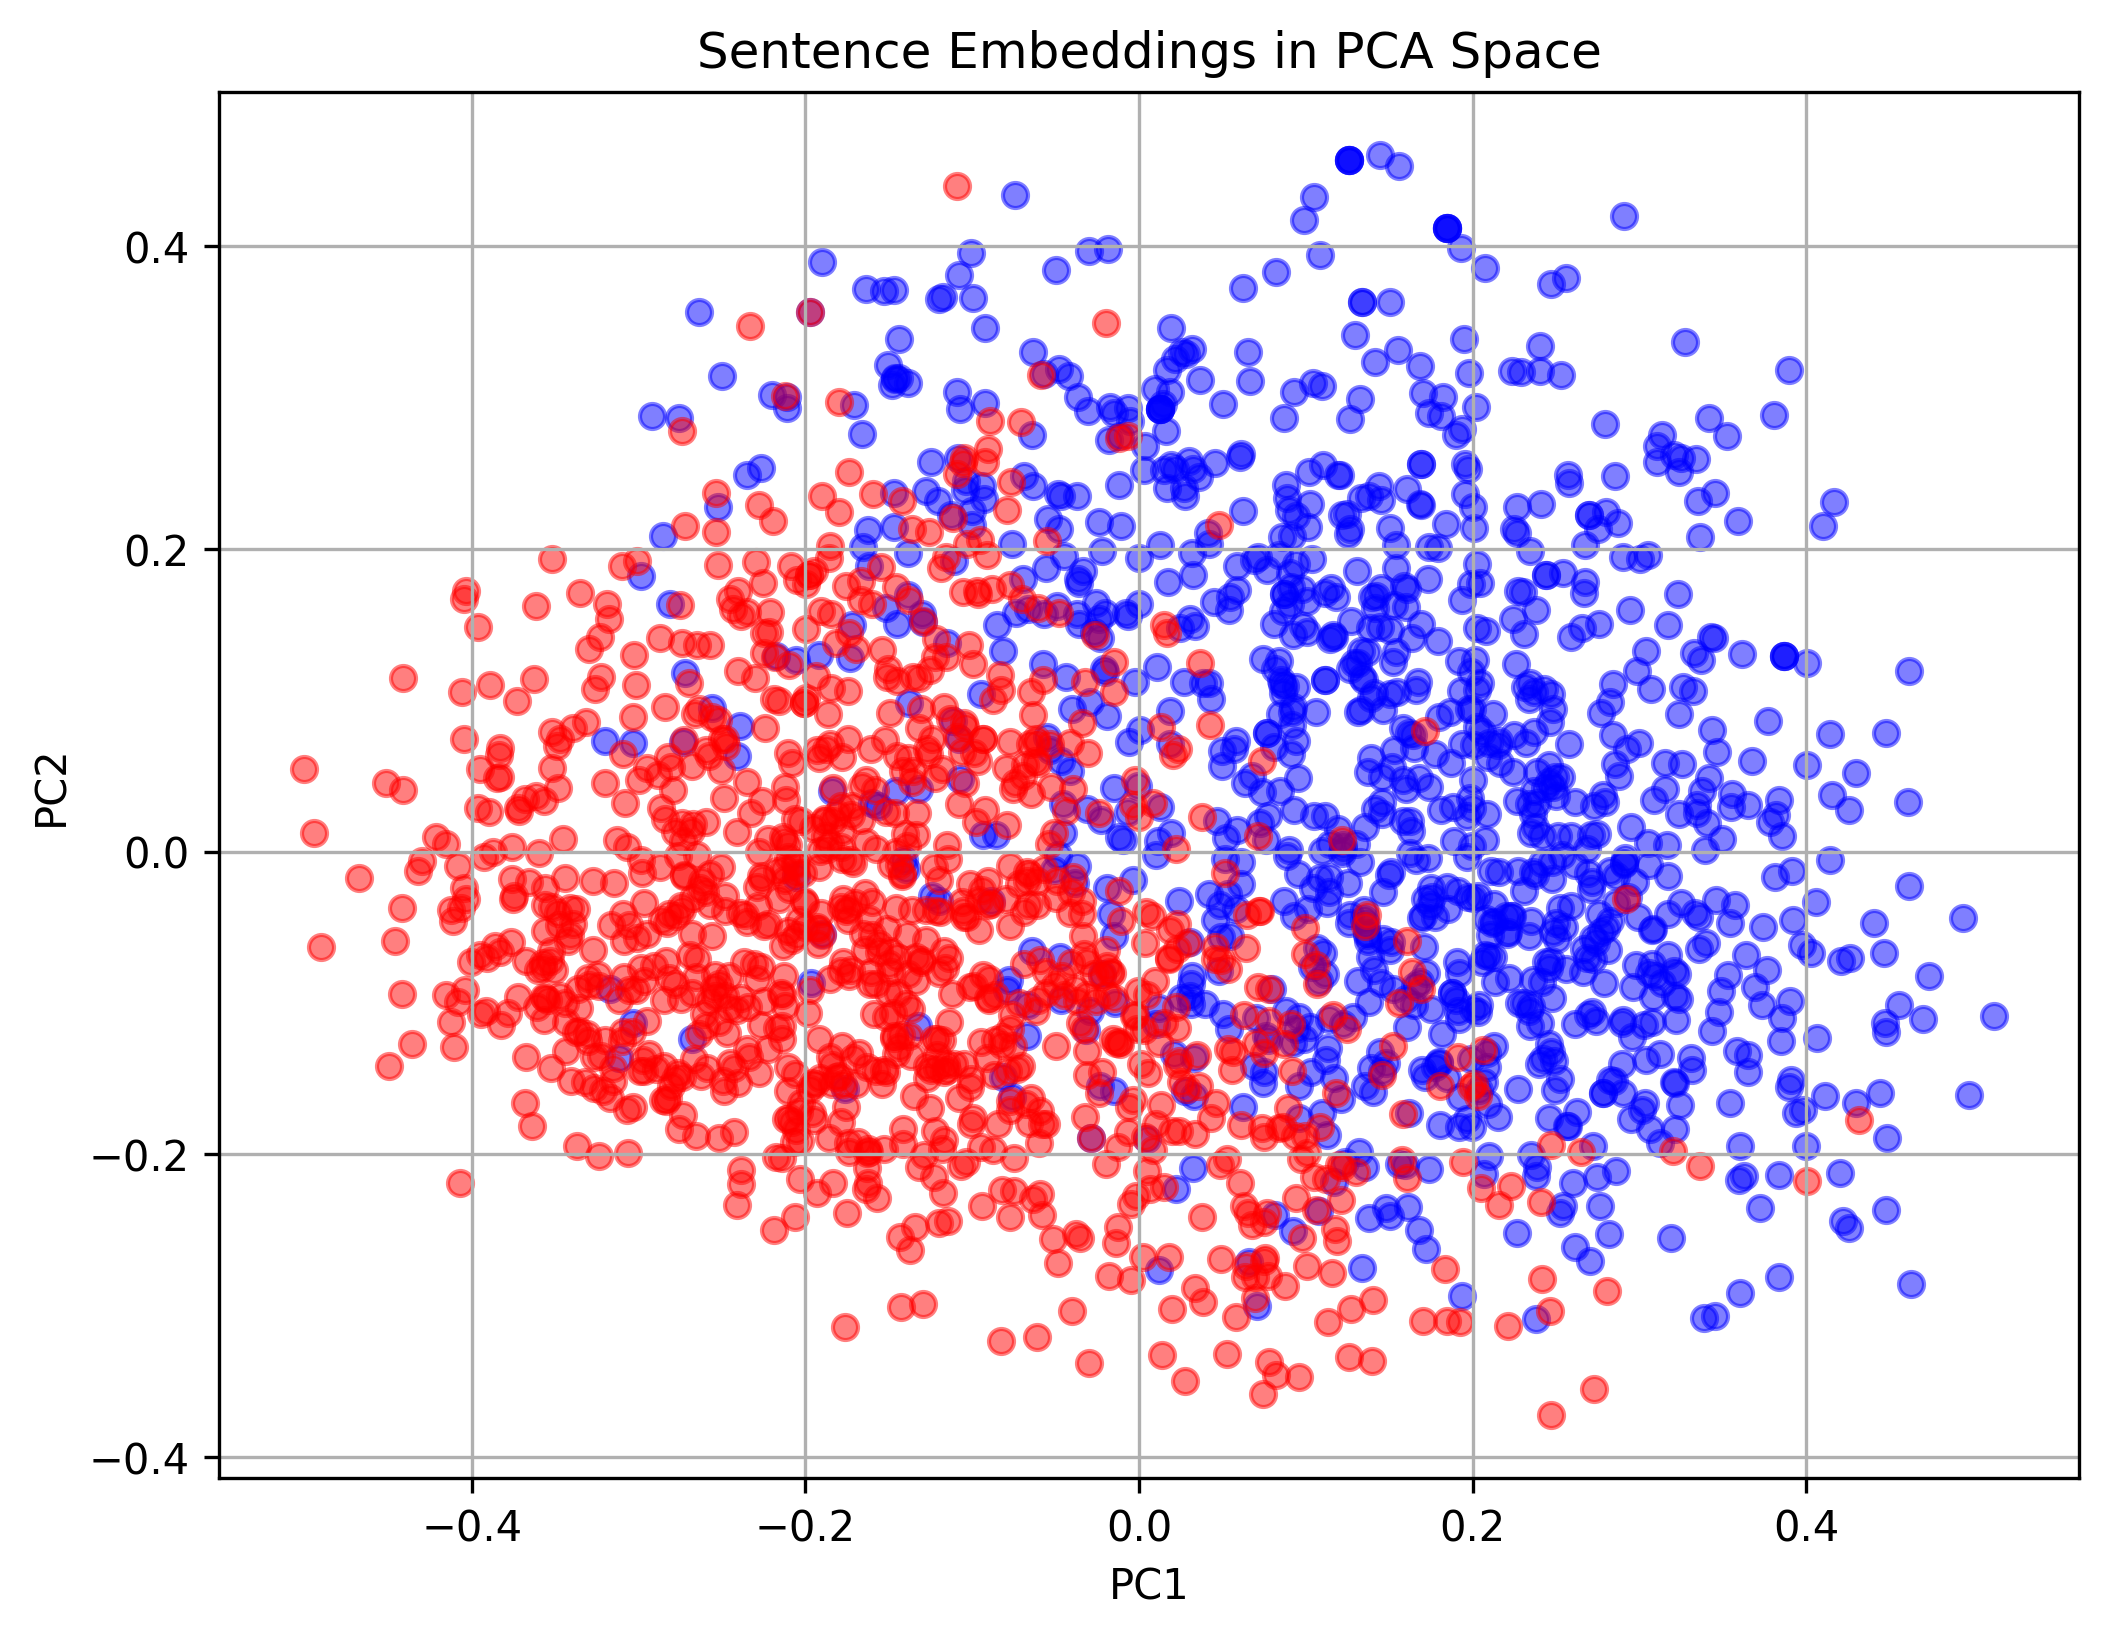
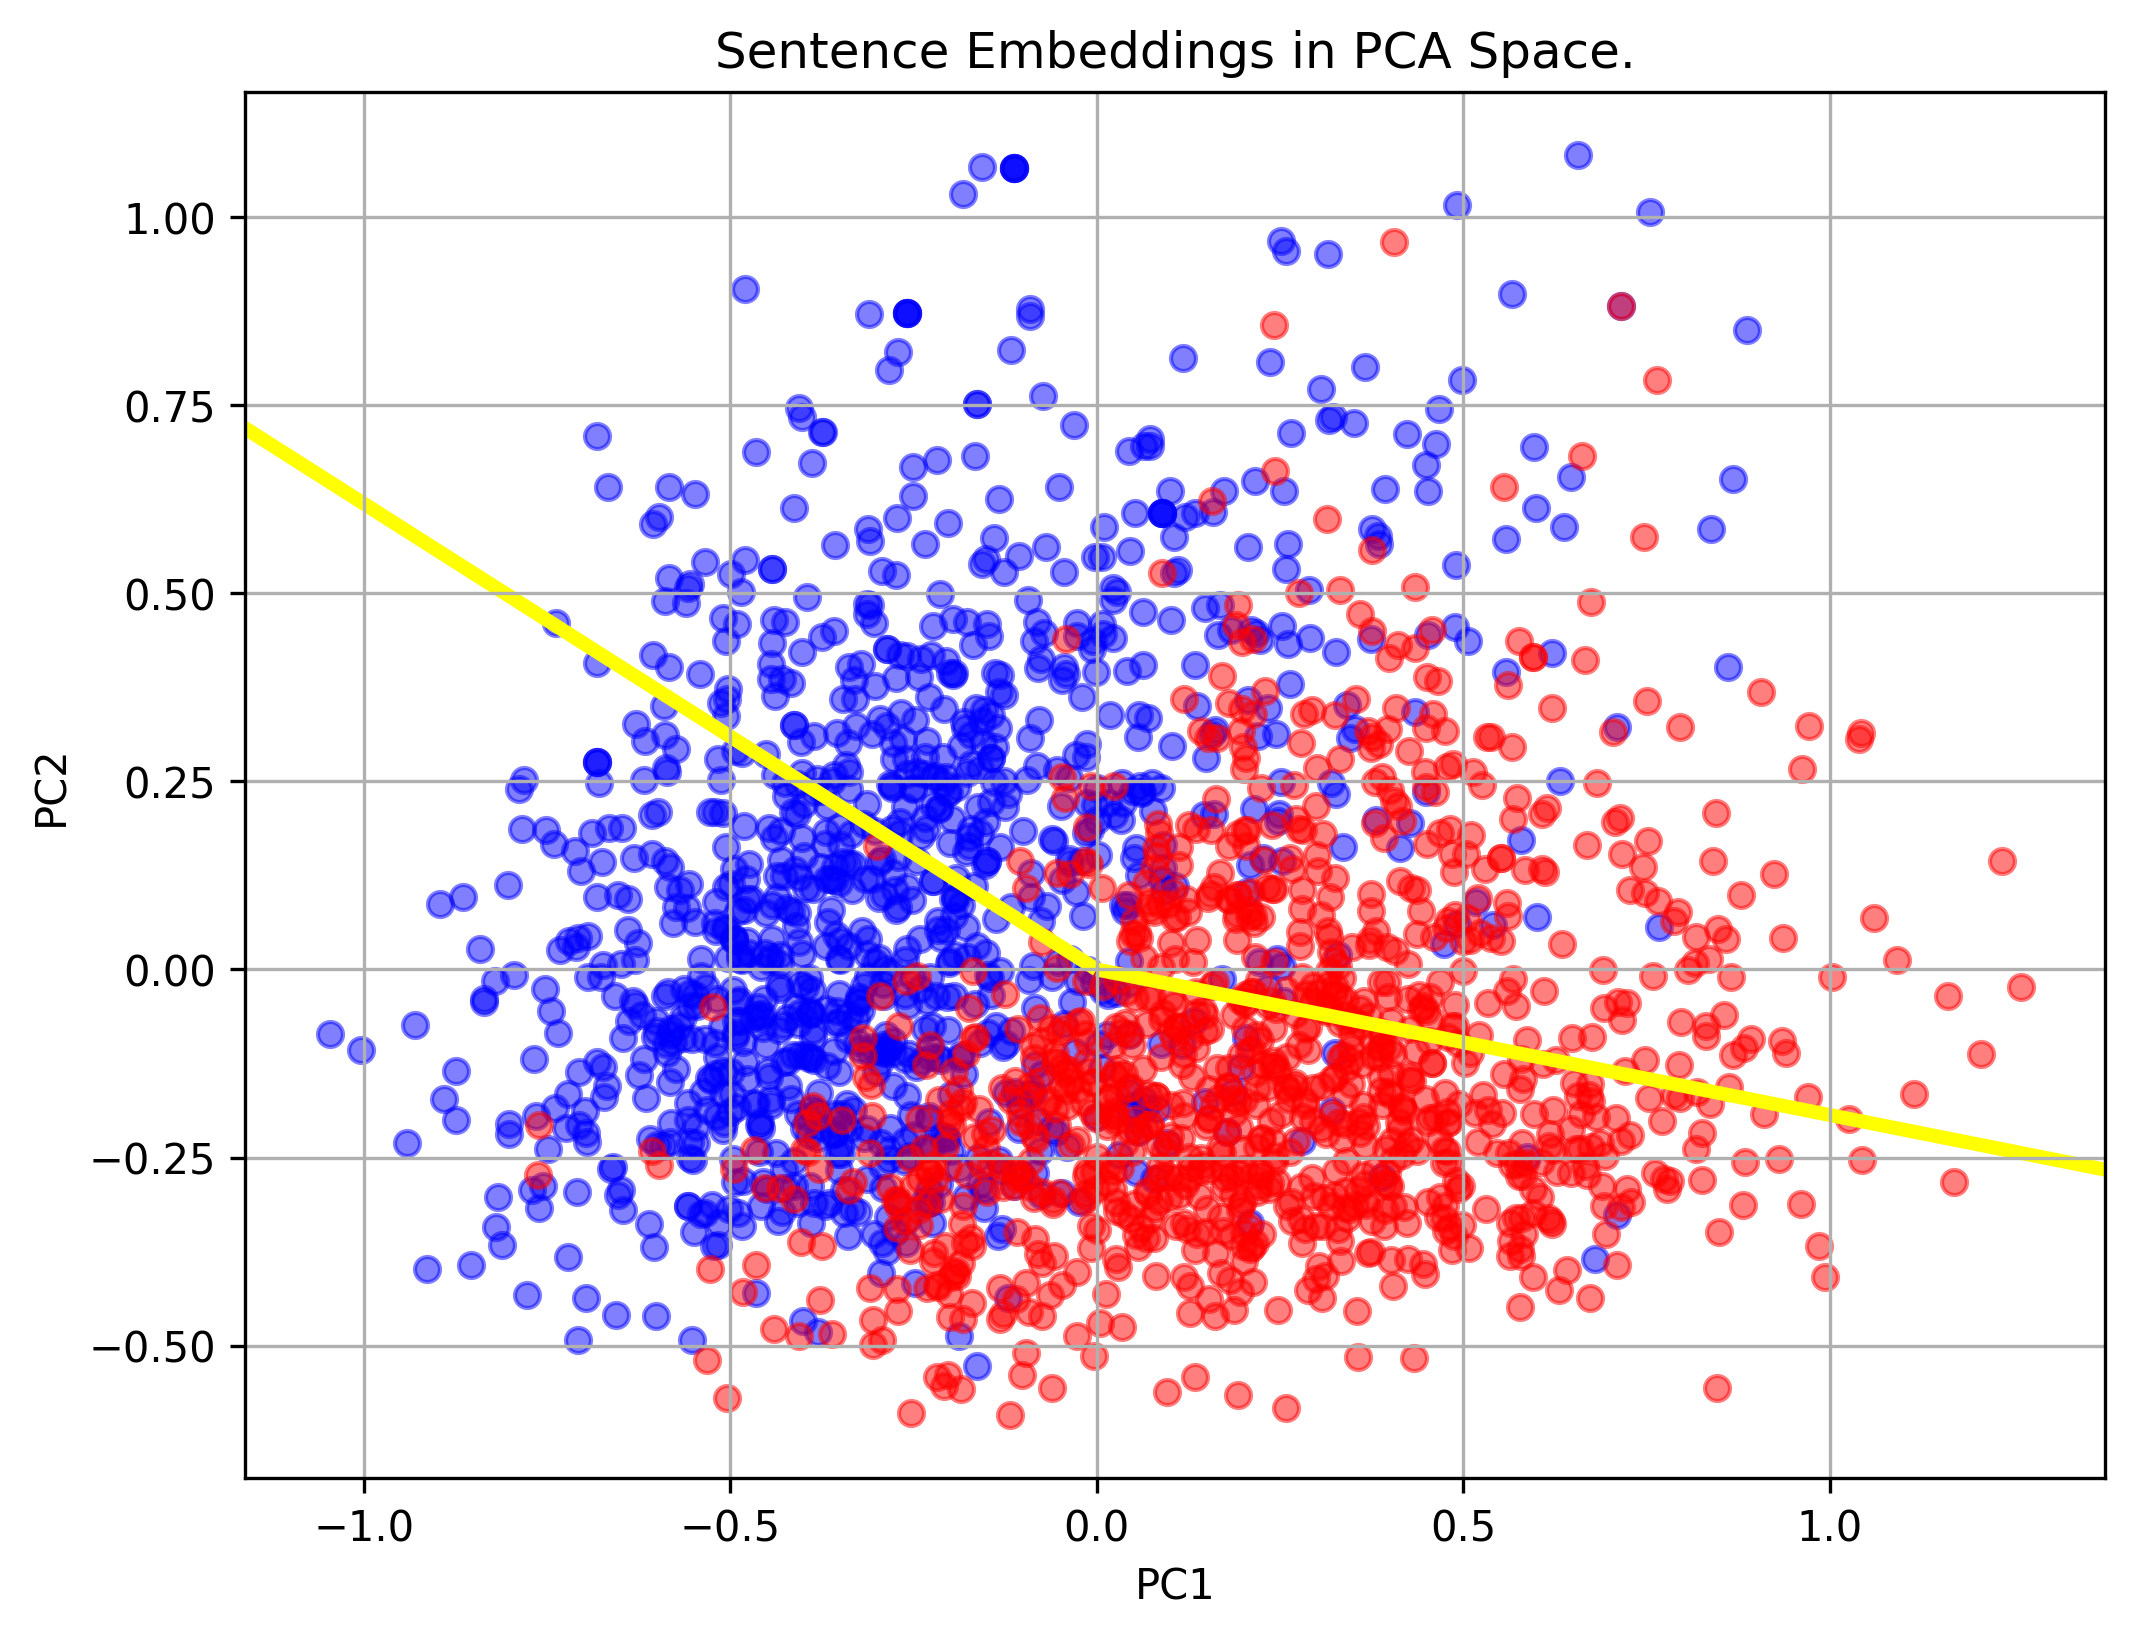
added more visualizations

diff --git a/generate_sentence_embeddings.py b/generate_sentence_embeddings.py
@@ -1,3 +1,8 @@
+import seaborn as sns
+import pandas as pd
+from sklearn.manifold import TSNE
+from sklearn.ensemble import RandomForestClassifier
+from sklearn.model_selection import train_test_split
 import numpy as np
 import tensorflow as tf
 import data_helpers
@@ -92,6 +97,8 @@ def sentence_embeddings(generate_embed_tensor=True):
         if math.isnan(np.linalg.norm(sentence_embeddings_tensor[sentence_index])):
             print("Nan embedding: ", sentence, x_text[sentence_index])
 
+    print(sentence_embeddings_tensor.shape[1])
+
     # Option 1: Without normalization
     pca_unnormalized = PCA(n_components=2)
     reduced_unnormalized = pca_unnormalized.fit_transform(sentence_embeddings_tensor)
@@ -101,15 +108,78 @@ def sentence_embeddings(generate_embed_tensor=True):
     pca_normalized = PCA(n_components=2)
     reduced_normalized = pca_normalized.fit_transform(normalized_embeddings)
 
+
     # Plot the sentences as points
     plt.figure(figsize=(8, 6))
-    plt.scatter(reduced_normalized[y[:, 1] == 1.0, 0], reduced_normalized[y[:, 1] == 1.0, 1], alpha=0.5, color='blue')
-    plt.scatter(reduced_normalized[y[:, 1] == 0.0, 0], reduced_normalized[y[:, 1] == 0.0, 1], alpha=0.5, color='red')
-    plt.title("Sentence Embeddings in PCA Space")
+    plt.scatter(reduced_unnormalized[y[:, 1] == 1.0, 0], reduced_unnormalized[y[:, 1] == 1.0, 1], alpha=0.5, color='blue')
+    plt.scatter(reduced_unnormalized[y[:, 1] == 0.0, 0], reduced_unnormalized[y[:, 1] == 0.0, 1], alpha=0.5, color='red')
+    eigenvectors=pca_unnormalized.components_
+    for i in range(eigenvectors.shape[0]):
+        plt.quiver(0, 0, eigenvectors[i, 0], eigenvectors[i, 1], angles='xy', scale_units='xy', scale=0.01, color='yellow', label=f"PC{i+1}" if i == 0 else "")
+    
+    plt.title(f"Sentence Embeddings in PCA Space.")
     plt.xlabel("PC1")
     plt.ylabel("PC2")
     plt.grid(True)
     plt.savefig("pca_plot.png", dpi=300, bbox_inches="tight")
+    plt.close()
+
+    plt.figure(figsize=(8, 6))
+    sns.heatmap(pca_unnormalized.components_, cmap='coolwarm')
+    plt.title('PCA Loading Matrix')
+    plt.savefig("loading_matrix.png", dpi=300, bbox_inches="tight")
+    plt.close()
+
+    # Assuming `labels` is the target and `embeddings` is the feature matrix
+    X_train, X_test, y_train, y_test = train_test_split(sentence_embeddings_tensor, y[:, 1], test_size=0.3, random_state=42)
+
+    # Train a Random Forest classifier
+    rf = RandomForestClassifier(n_estimators=100)
+    rf.fit(X_train, y_train)
+
+    # Get feature importance
+    feature_importances = rf.feature_importances_
+
+    # Plot feature importance
+    plt.figure(figsize=(10, 6))
+    plt.bar(range(len(feature_importances)), feature_importances)
+    plt.title("Feature Importance from Random Forest")
+    plt.xlabel("Feature Index")
+    plt.ylabel("Importance")
+    # plt.show()
+    plt.savefig("importance.png", dpi=300, bbox_inches="tight")
+    plt.close()
+
+    # Reduce dimensionality using t-SNE for visualization
+    tsne = TSNE(n_components=2, random_state=42)
+    tsne_result = tsne.fit_transform(sentence_embeddings_tensor)
+
+    # Plot the t-SNE results
+    plt.figure(figsize=(8, 6))
+    plt.scatter(tsne_result[y[:, 1] == 1, 0], tsne_result[y[:, 1] == 1, 1], color='blue', label='objective', alpha=0.5)
+    plt.scatter(tsne_result[y[:, 1] == 0, 0], tsne_result[y[:, 1] == 0, 1], color='red', label='subjective', alpha=0.5)
+    plt.title("t-SNE of Sentence Embeddings")
+    plt.xlabel("Component 1")
+    plt.ylabel("Component 2")
+    plt.legend()
+    plt.savefig("tsne.png", dpi=300, bbox_inches="tight")
+    plt.close()
+
+    correlation_matrix = np.corrcoef(sentence_embeddings_tensor, rowvar=False)
+    df_corr = pd.DataFrame(correlation_matrix)
+    plt.figure(figsize=(12, 8))
+    sns.heatmap(df_corr, annot=False, cmap='coolwarm', xticklabels=False, yticklabels=False)
+    plt.title("Correlation Matrix of Sentence Embeddings")
+    plt.savefig("corr_plot.png", dpi=300, bbox_inches="tight")
+
+    # Descriptive statistics for sentence embeddings
+    embedding_stats = pd.DataFrame(reduced_unnormalized).describe()
+
+    # Descriptive statistics for labels
+    label_stats = pd.Series(y[:, 1]).describe()
+
+    print("Embedding Statistics:\n", embedding_stats)
+    print("\nLabel Statistics:\n", label_stats)
 
 def main(argv=None):
     sentence_embeddings()
